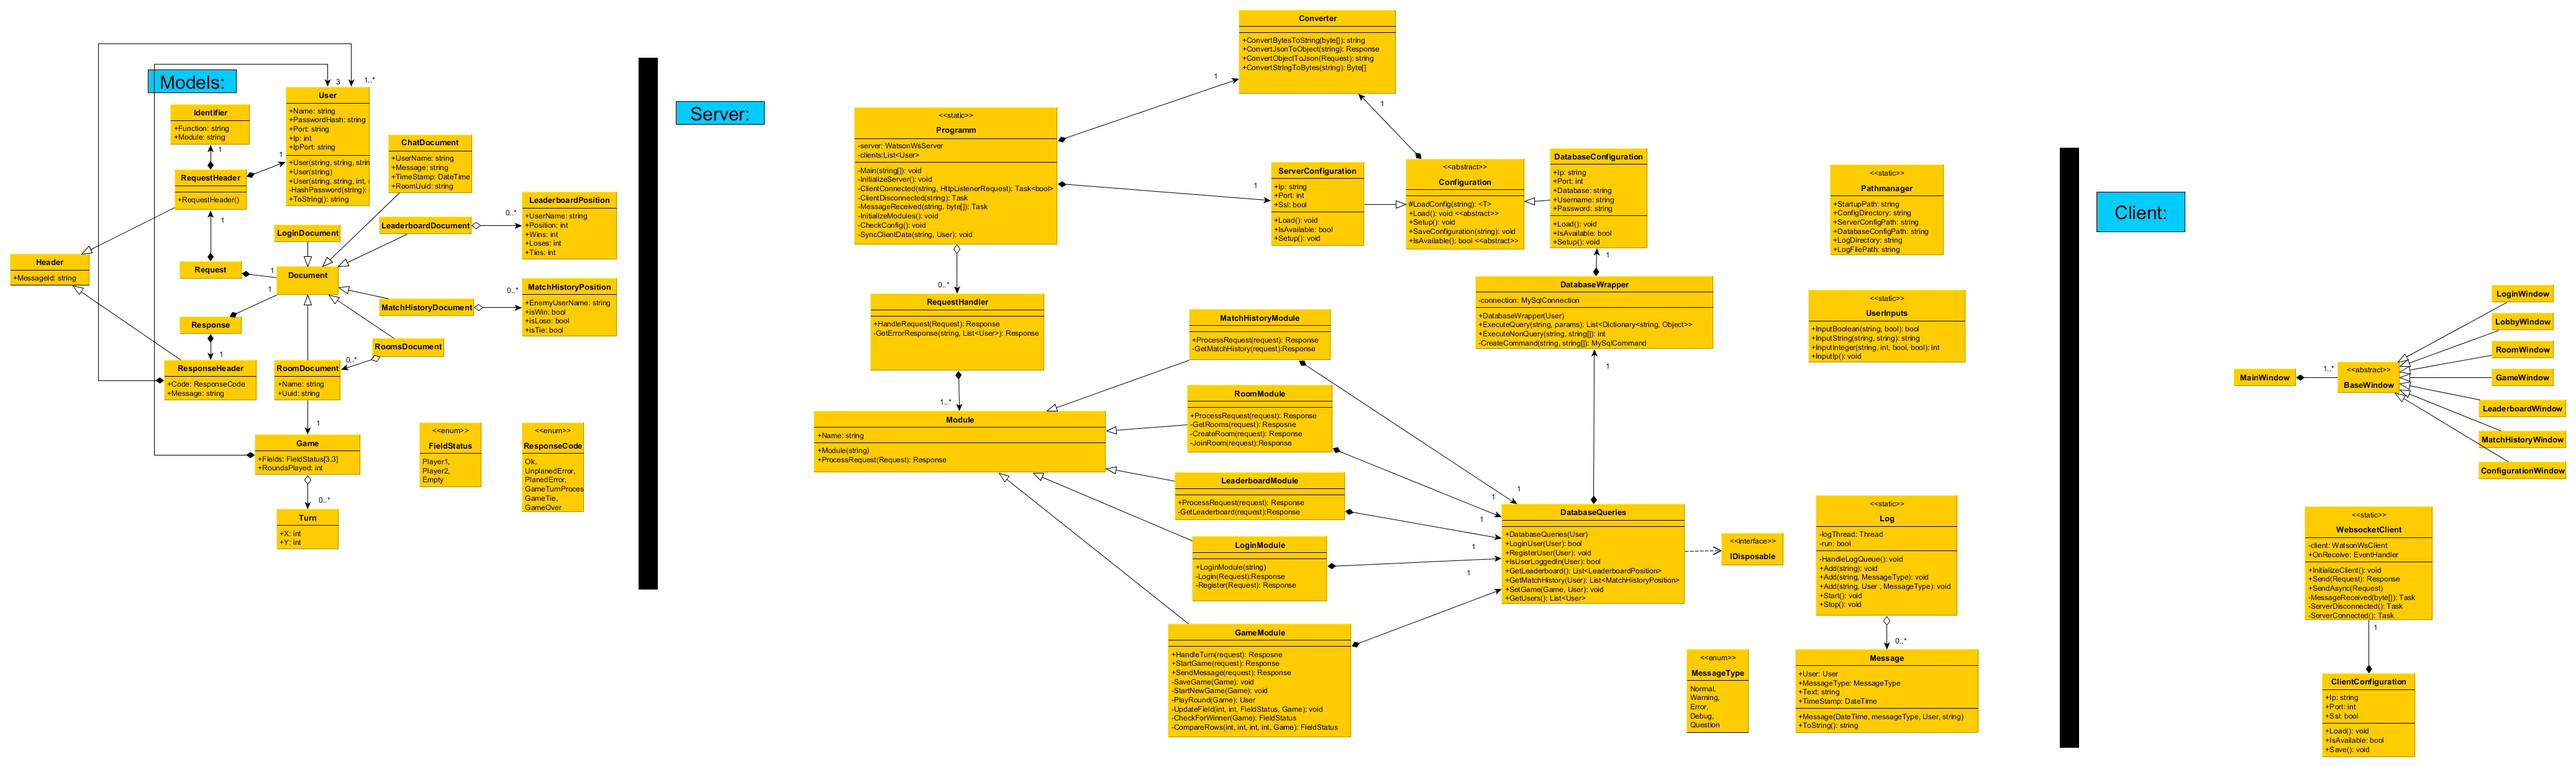
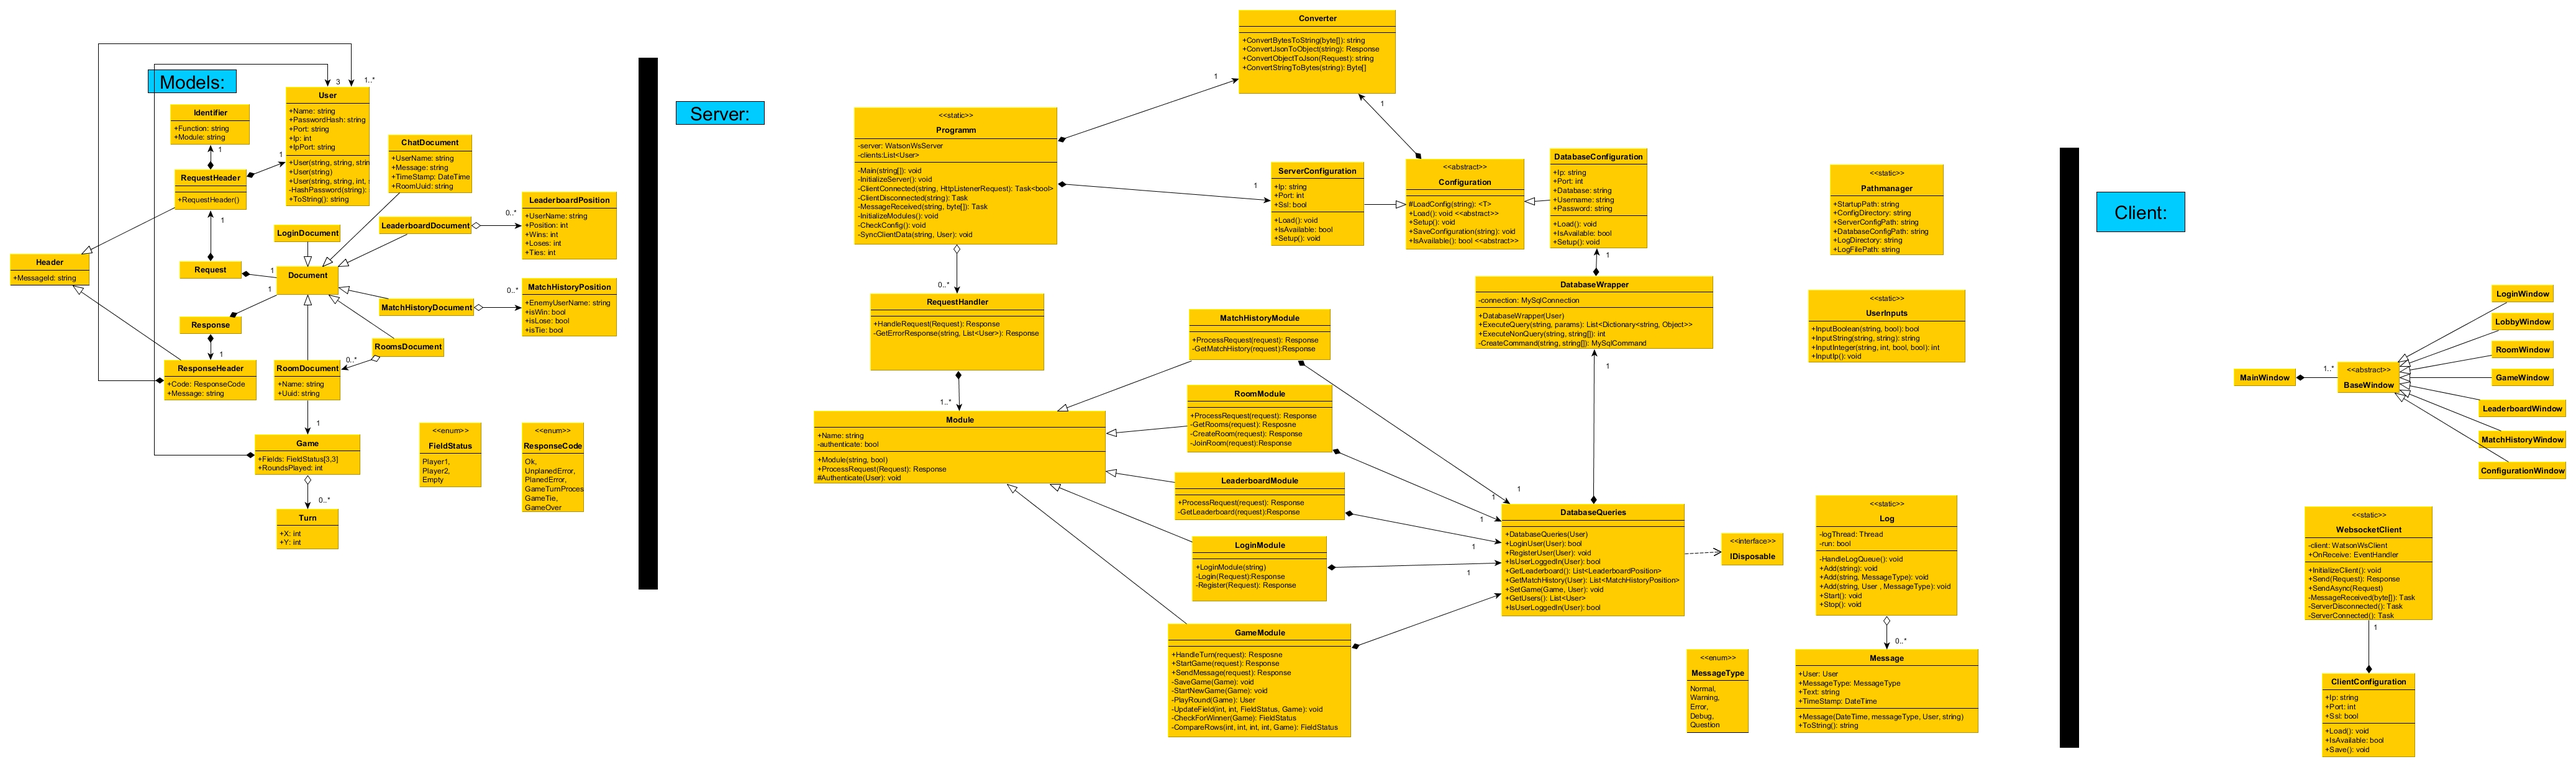
Prüfen, ob Nutzer eingeloggt ist bevor eine Anfrage bearbeitet wird

Changed region(s): [[0.3111, 0.5534, 0.4355, 0.6456], [0.5599, 0.7686, 0.6532, 0.8301], [0.5599, 0.6456, 0.591, 0.6764]]

diff --git a/Server/Modules/Module.cs b/Server/Modules/Module.cs
@@ -6,15 +6,19 @@ namespace Server.Modules
 {
     public abstract class Module
     {
-        public string Name;
+        public string Name { get; set; }
+        private bool authenticate;
 
-        public Module(string name)
+        public Module(string name, bool authenticate = true)
         {
             Name = name;
+            this.authenticate = authenticate;
         }
 
         public Response ProcessRequest(Request request)
         {
+            if (authenticate) Authenticate(request.Header.User);
+
             foreach (MethodInfo m in GetType().GetRuntimeMethods())
             {
                 if (m.Name.ToLower() == request.Header.Identifier.Function.ToLower())
@@ -24,6 +28,17 @@ namespace Server.Modules
             }
 
             throw new NotImplementedException($"Function {request.Header.Identifier.Function} is not part of module {request.Header.Identifier.Module}");
+        }
+
+        protected void Authenticate(User user)
+        {
+            using (Database.DatabaseQueries db = new Database.DatabaseQueries(user))
+            {
+                if (!db.IsUserLoggedIn(user))
+                {
+                    throw new Exception($"User {user} is not logged in.");
+                }
+            }
         }
 
     }

diff --git a/Server/Database/DatabaseQueries.cs b/Server/Database/DatabaseQueries.cs
@@ -36,6 +36,8 @@ namespace Server.Database
 
         public int RegisterUser(User user) => database.ExecuteNonQuery($"INSERT INTO users(name, hash) VALUES ('{user.Name}', '{user.PasswordHash}');");
 
+        public bool IsUserLoggedIn(User user) => database.ExecuteQuery($"SELECT * FROM users WHERE name='{user.Name}' AND loggedin=1").Count == 1;
+
         public void Dispose()
         {
             database = null;

diff --git a/Server/Modules/LoginModule.cs b/Server/Modules/LoginModule.cs
@@ -7,7 +7,7 @@ namespace Server.Modules
 {
     public class LoginModule : Module
     {
-        public LoginModule() : base("LoginModule") { }
+        public LoginModule() : base("LoginModule", false) { }
 
         private Response Login(Request request)
         {
